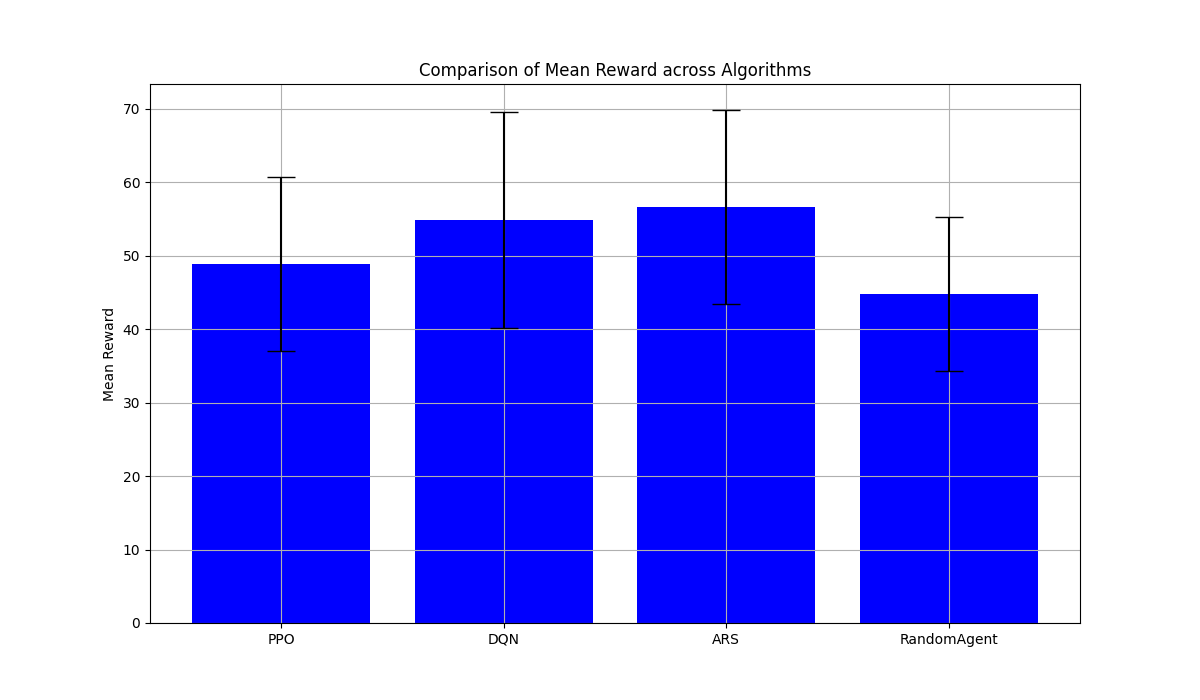
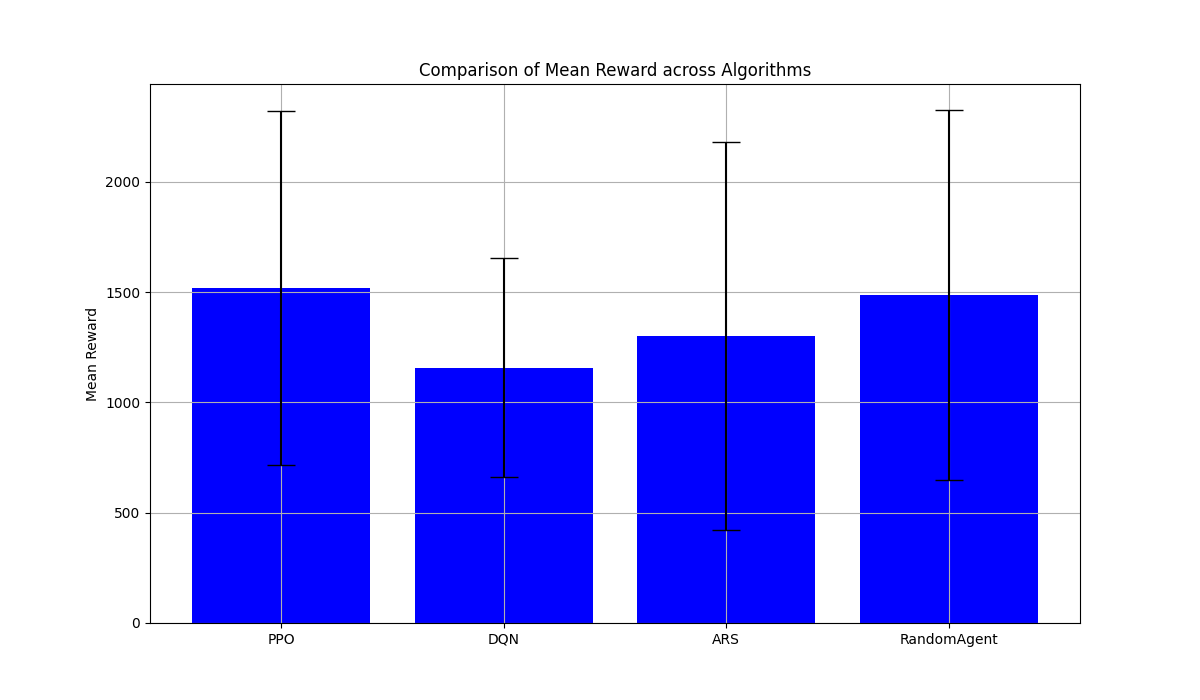
biomass + yield scaled

diff --git a/aquacroprice/envs/maize.py b/aquacroprice/envs/maize.py
@@ -47,7 +47,7 @@ class Maize(gym.Env):
             self.soil = soil
 
         # Define observation space: Includes weather-related observations
-        self.observation_space = spaces.Box(low=-np.inf, high=np.inf, shape=(12,), dtype=np.float32)
+        self.observation_space = spaces.Box(low=-np.inf, high=np.inf, shape=(9,), dtype=np.float32)
         
         self.action_depths = [0, 25]
         self.action_space = spaces.Discrete(len(self.action_depths))  # Discrete action space with 6 actions
@@ -120,9 +120,9 @@ class Maize(gym.Env):
             total_precipitation_last_7_days,
             cum_min_temp_last_7_days,
             cum_max_temp_last_7_days,
-            prev_day_min_temp,
-            prev_day_max_temp,
-            prev_day_precipitation,
+            # prev_day_min_temp,
+            # prev_day_max_temp,
+            # prev_day_precipitation,
         ], dtype=np.float32)
 
         return obs
@@ -174,7 +174,7 @@ class Maize(gym.Env):
         delta_biomass = abs(biomass_ns - biomass)
         reward = 1 / (1 + delta_biomass)
         
-        print(f"Biomass: {biomass}, Biomass NS: {biomass_ns}, Delta Biomass: {delta_biomass}, Step Reward: {reward}")
+        # print(f"Biomass: {biomass}, Biomass NS: {biomass_ns}, Delta Biomass: {delta_biomass}, Step Reward: {reward}")
         
         terminated = self.model._clock_struct.model_is_finished
         
@@ -188,13 +188,8 @@ class Maize(gym.Env):
             dry_yield = self.model._outputs.final_stats['Dry yield (tonne/ha)'].mean()
             total_irrigation = self.model._outputs.final_stats['Seasonal irrigation (mm)'].mean()
             
-            if total_irrigation > 0:
-                irrigation_efficiency = dry_yield / total_irrigation
-            else:
-                irrigation_efficiency = 0  # Avoid division by zero
-        
-            # Add the irrigation efficiency to the reward
-            reward += irrigation_efficiency
+            final_reward = ((dry_yield + 1) ** 3) - ((total_irrigation + 1) * 10)
+            reward += final_reward  # Add the final reward to the step reward
             
             print(f"Dry Yield: {dry_yield}")
             print(f"Total Irrigation: {total_irrigation}")

diff --git a/train2.py b/train2.py
@@ -30,15 +30,21 @@ class RewardLoggingCallback(BaseCallback):
         self.losses = []  # Track losses per episode
 
     def _on_step(self) -> bool:
+        # Track rewards
         if 'rewards' in self.locals:
             mean_reward = np.mean(self.locals['rewards'])
             self.current_rewards += mean_reward
 
-        # Access loss if available (specific to PPO or similar models)
-        if 'loss' in self.locals:
-            loss = self.locals['loss']
-            self.losses.append(loss)  # Track the loss at each step
+        # Track loss if PPO model is being used
+        if hasattr(self.model, 'policy'):
+            # Access loss from PPO policy after the optimization step
+            if hasattr(self.model.policy, 'logger'):
+                loss = self.model.policy.logger.name_to_value.get('train/loss', None)
+                if loss is not None:
+                    print(f"Logging loss: {loss}")
+                    self.losses.append(loss)  # Track the loss
 
+        # Episode ends
         if 'dones' in self.locals and any(self.locals['dones']):
             env = self.locals['env'].envs[0]
             info = self.locals['infos'][0]
@@ -48,7 +54,6 @@ class RewardLoggingCallback(BaseCallback):
 
             if not np.isnan(dry_yield) and not np.isnan(total_irrigation):
                 print(f"Episode ended. Dry yield: {dry_yield}, Total irrigation: {total_irrigation}")
-
                 self.yields.append(dry_yield)
                 self.irrigations.append(total_irrigation)
 
